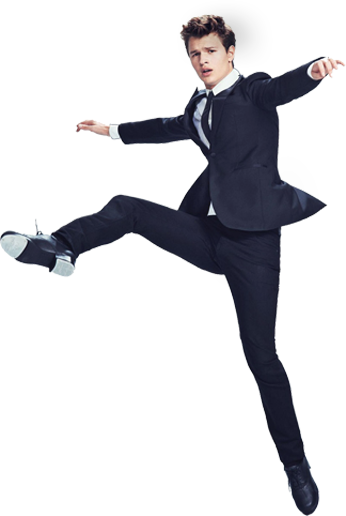
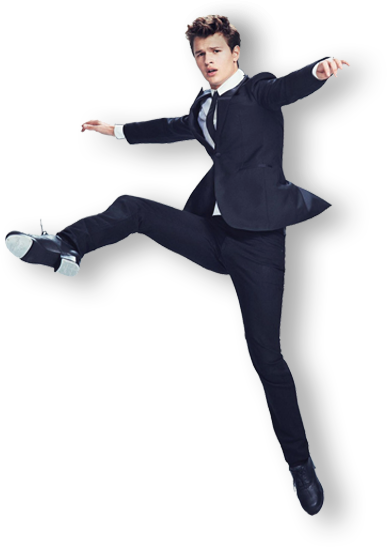
static slider finished

Changed region(s): [[0.0, 0.0, 0.9827, 1.0]]

diff --git a/index.html b/index.html
@@ -37,12 +37,15 @@
 		
 
 		<div class="slider">
+
+		  <a href="#" class="arrow_left"></a>
+		  <a href="#" class="arrow_right"></a>
+
 		  <div class="model">
 		  	<img src="img/guy.png" alt="model guy">
 		  </div>
 
-		  <a class="arrow_left"></a>
-		  <a class="arrow_right"></a>
+		 
 
 		  <div class="slider_text">
 			<h2>
@@ -53,28 +56,93 @@
 
 			<p>Here's some items you might like</p>
 
-			<a href="#" class="looks">see all my looks</a>
+			<a href="#" >see all my looks</a>
 		  </div>
 
 		  
+		  <div class="look">
+			  <div class="designer">	
+				<div class="size">
+			  	  <div class="outside">
+					<div class="inside">
+					  <div class="contain">	
 
-		  <div class="designer">	
-			<div class="size">
-		  	  <div class="outside">
-				<div class="inside">
-				  <div class="contain">	
+						<img src="img/stylist.png" alt="stylist">
+						<img src="img/divider-white-stylist.png" alt="divider">
 
-					<img src="img/stylist.png" alt="stylist">
-					<img src="img/divider-white-stylist.png" alt="divider">
+						<p>Made by Janu</p>
 
-					<p>Made bu Janu</p>
+						<img src="img/star.png" alt="stars">
 
-					<img src="img/star.png" alt="stars">
+					  </div>
+					</div>
+				  </div>
+				</div>
+			  </div>
+		  
+		  	<div class="items">
+			  <div class="item1">	
+				<div class="size">
+			  	  <div class="outside">
+					<div class="inside">
+					  <div class="contain">	
 
+						<p class="up">500 $</p>
+						<p>Trousers</p>
+
+					  </div>
+					</div>
+				  </div>
+				</div>
+			  </div>
+
+			  <div class="item2">	
+				<div class="size">
+			  	  <div class="outside">
+					<div class="inside">
+					  <div class="contain">	
+
+						<p class="up">1 370 $</p>
+						<p>Jacket</p>
+
+					  </div>
+					</div>
+				  </div>
+				</div>
+			  </div>
+
+			  <div class="item3">	
+				<div class="size">
+			  	  <div class="outside">
+					<div class="inside">
+					  <div class="contain">	
+
+						<p class="up">900 $</p>
+						<p>Shoes</p>
+
+					  </div>
+					</div>
+				  </div>
+				</div>
+			  </div>
+
+			  <div class="item4">	
+				<div class="size">
+			  	  <div class="outside">
+					<div class="inside">
+					  <div class="contain">
+
+						<p class="up">230 $</p>
+						
+						<p>Shirt</p>
+
+					  </div>
+					</div>
 				  </div>
 				</div>
 			  </div>
 			</div>
+
 		  </div>
 		  
 

diff --git a/css/style.css b/css/style.css
@@ -1,4 +1,30 @@
 @import url("fonts.css");
+.outside, .inside, .contain {
+	border: 1px solid #FFF;
+	display: flex;
+	align-items: center;
+	justify-content: center;
+}
+.outside {
+	transform: rotate(45deg);
+	width: 100%;
+	height: 100%;
+}
+.inside {
+	align-self: center;
+	width: 95%;
+	height: 95%;
+}
+.contain {
+	width: 100%;
+	height: 100%;
+	background: transparent;
+	background-repeat: no-repeat;
+	background-position: center;
+	border: 0;
+	color: #FFF;
+	transform: rotate(675deg);
+}
 * {
 	margin: 0;
 	padding: 0;
@@ -124,7 +150,7 @@ header {
 	left: 18.85%;
 	line-height: 2.7;
 }
-.slider .slider_text .looks {
+.slider .slider_text a {
   font-size: 12px;
   font-family: "PTSerifBold";
   color: rgb(55, 61, 61);
@@ -136,8 +162,8 @@ header {
 .slider .model {
 	float: right;
 	position: relative;
-	right: 11%;
-	bottom: 25px;
+	right: 8.63%;
+	bottom: 21px;
 }
 .slider .arrow_right, .arrow_left {
 	content: "";
@@ -155,19 +181,22 @@ header {
 	background: url(../img/arrow_r.png);
 	right: 1%;
 }
-
-
-
-
+.designer .inside {
+	position: relative;
+}
 .designer .contain {
 	display: flex;
 	flex-direction: column;
 	justify-content: space-around;
 	height: 80%;
-
+	position: relative;
+	bottom: 5.5px;
+	right: 4.5px;
 }
-.designer {
+.look {
 	padding-top: 31.5px;
+	max-width: 640px;
+	margin-left: 70px;
 	
 }
 .designer .size {
@@ -177,8 +206,47 @@ header {
 	position: relative;
 	left : 5.88%;
 }
+.item1 .size,
+.item2 .size,
+.item3 .size,
+.item4 .size {
+	width: 70px;
+	height: 70px;
+}
+.look {
+	display: flex;
+	flex-direction: row;
 
-
+}
+.items {
+	width: 100%;
+	display: flex;
+	flex-direction: row;
+	align-items: center;
+	justify-content: space-around;
+}
+.items .outside {
+	border-color: #FFF;
+	background-color: #FFF;
+}
+.items .inside {
+	border-color: #a7b3b3;
+	background-color: #FFF;
+}
+.items .contain {
+  color: #a7b3b3;
+  font-size: 14px;
+  font-family: "PTDinTextCondProRegular";
+  color: rgb(167, 179, 179);
+  text-align: center;
+  display: flex;
+  flex-direction: column;
+  line-height: 1.7;
+}
+.items .contain .up {
+	width: 100%;
+	border-bottom: 1px solid #a7b3b3;
+}
 
 
 
